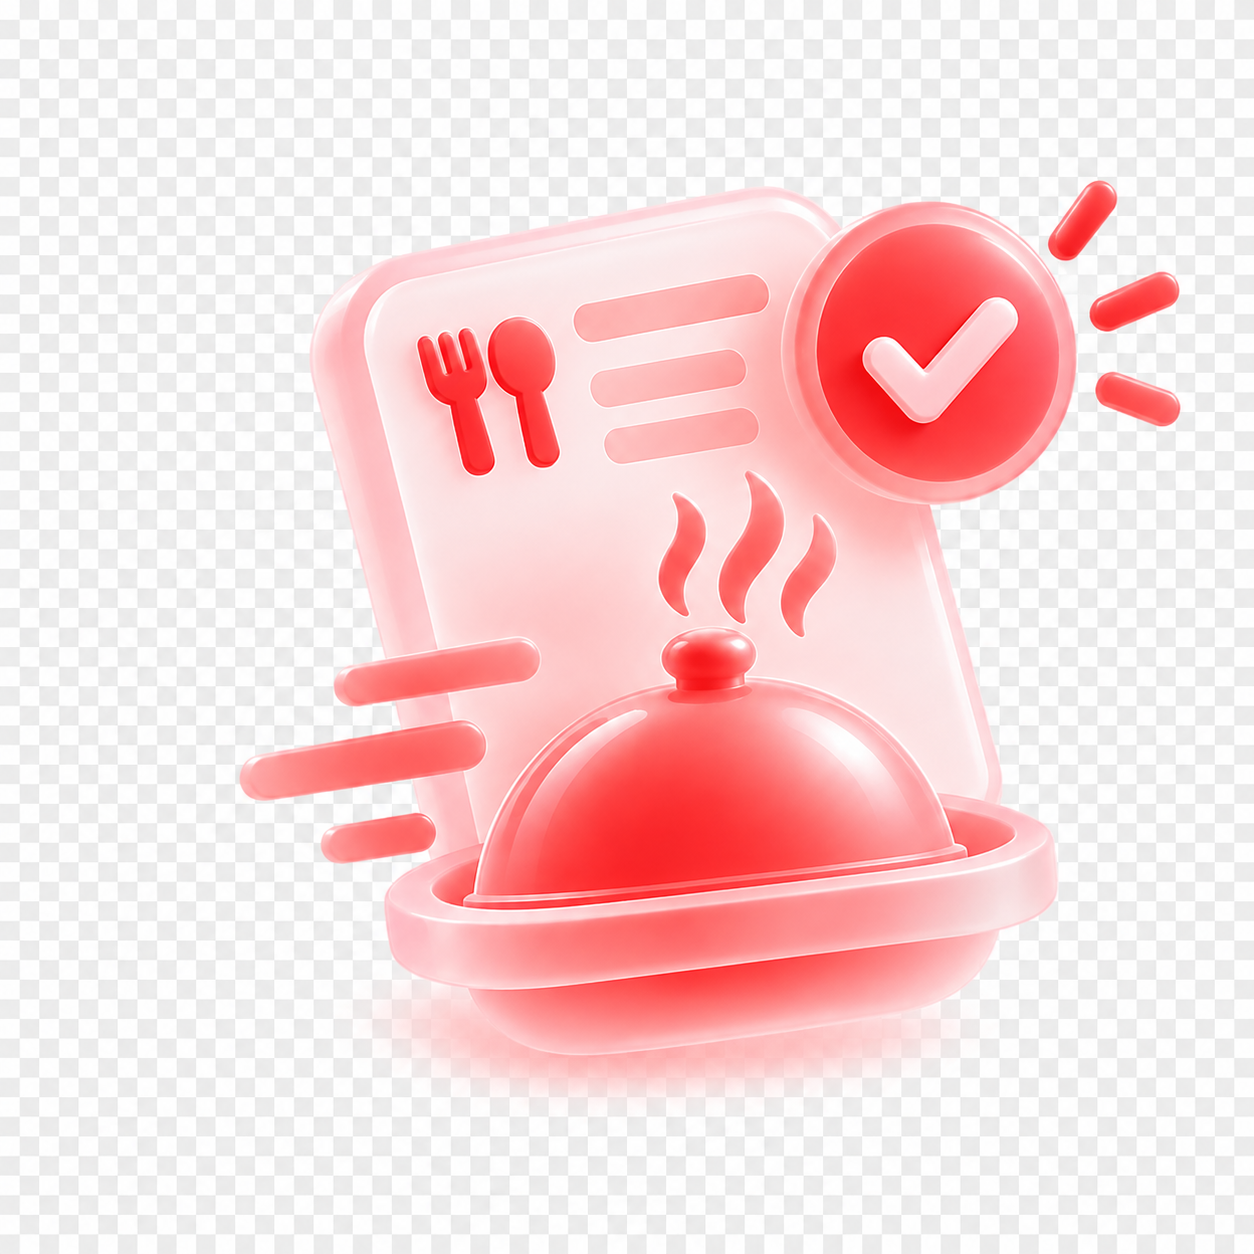
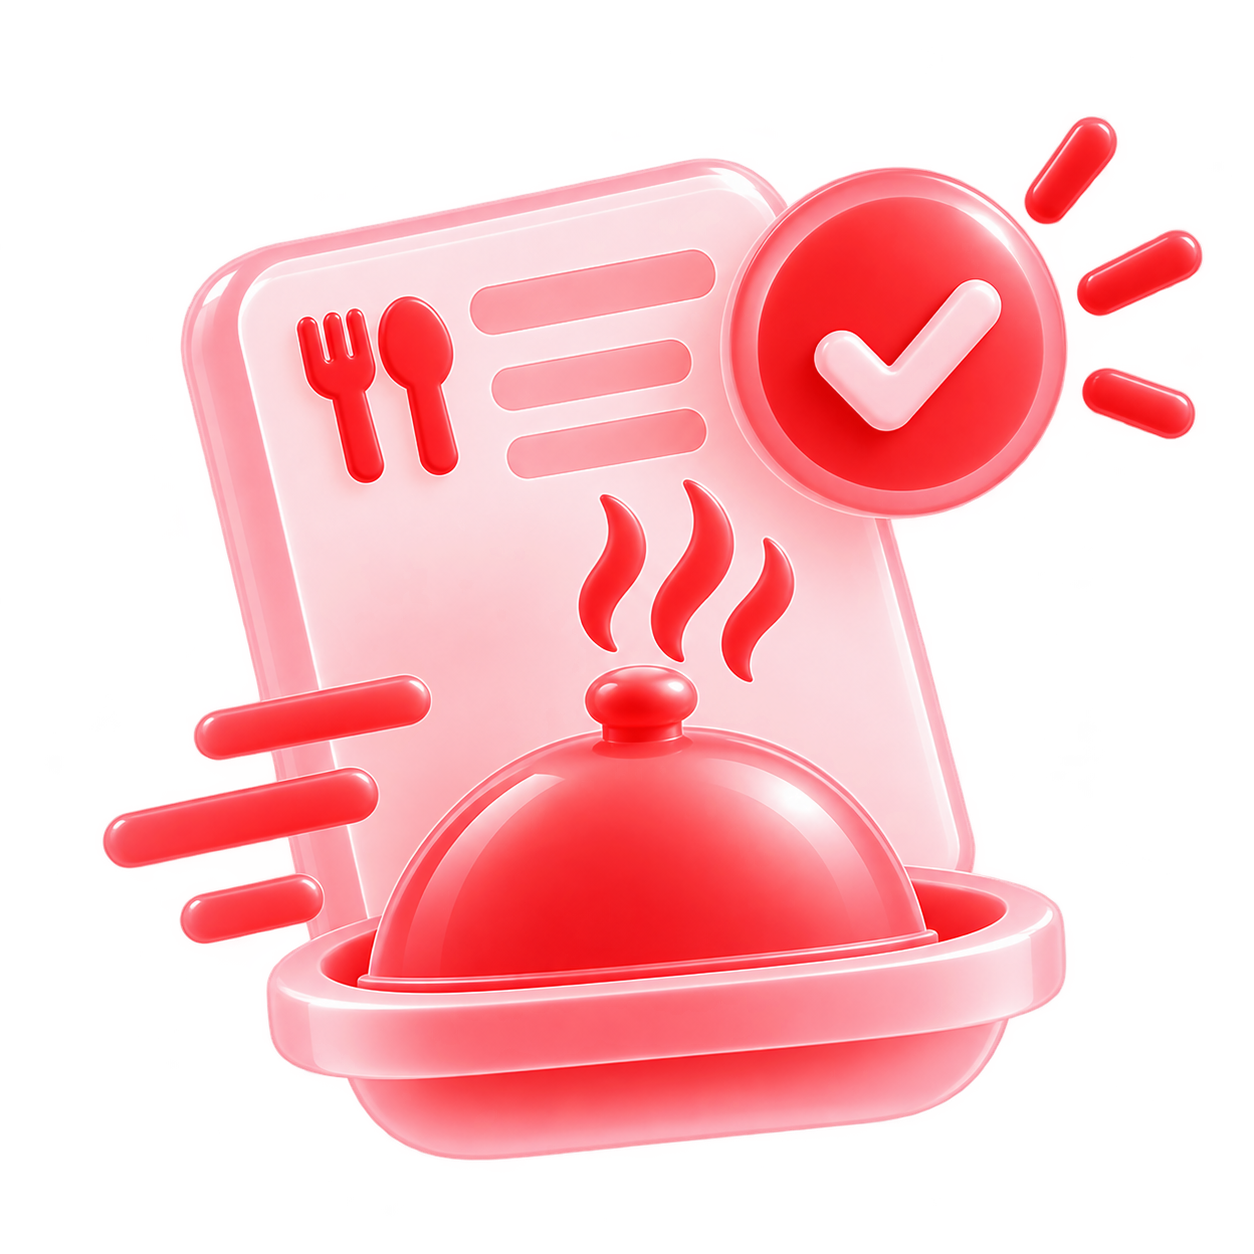
geradle fix

diff --git a/lib/features/orders/screens/recent_orders_screen.dart b/lib/features/orders/screens/recent_orders_screen.dart
@@ -164,7 +164,7 @@ class _Body extends StatelessWidget {
             // ── تب سفارشات فعال ──
             _OrderList(
               orders: provider.activeOrders,
-              emptyImagePath: 'assets/images/active_order.png', // جایگزینی ایموجی با عکس
+              emptyImagePath: 'assets/images/avtive_order.png', // جایگزینی ایموجی با عکس
               emptyTitle: 'سفارش فعالی نداری',
               emptySubtitle: 'یه نگاه به منو بنداز و خوشمزهترین غذا رو انتخاب کن 😋',
               isDark: isDark,
